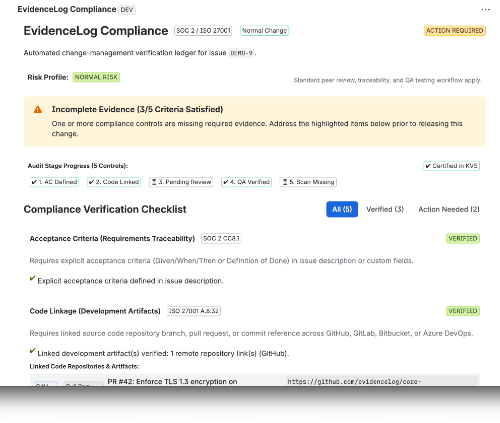
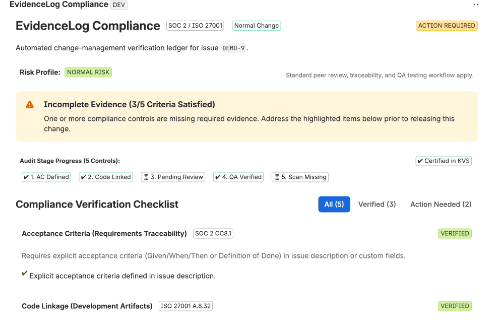
fix: remove all text fluff, HUD badges, and card borders; clean crop with zero waste space

diff --git a/components/Hero.tsx b/components/Hero.tsx
@@ -1,7 +1,6 @@
 "use client";
 
-import { ArrowRight, FileCheck, Check, Download, ShieldCheck } from "lucide-react";
-import Image from "next/image";
+import { ArrowRight, FileCheck, Check, ShieldCheck } from "lucide-react";
 
 interface HeroProps {
   onOpenAuditModal: () => void;
@@ -10,23 +9,11 @@ interface HeroProps {
 export default function Hero({ onOpenAuditModal }: HeroProps) {
   return (
     <section className="relative overflow-hidden pt-12 pb-16 md:pt-16 md:pb-24 bg-white">
-      {/* Signature Contis subtle background shape */}
-      <div className="pointer-events-none absolute right-0 top-0 w-[500px] md:w-[700px] h-[500px] md:h-[600px] z-0 opacity-80 select-none">
-        <Image
-          src="/images/banner_shape_3.png"
-          alt=""
-          fill
-          priority
-          className="object-contain object-right-top"
-        />
-      </div>
-
       <div className="relative mx-auto max-w-7xl px-4 sm:px-6 lg:px-8 z-10">
         {/* Split 2-Column Hero: 100% Above-the-Fold Layout */}
         <div className="grid grid-cols-1 lg:grid-cols-12 gap-8 lg:gap-12 items-center">
           {/* Left Column: Value Proposition, Headlines & CTAs */}
           <div className="lg:col-span-6 xl:col-span-7 text-left">
-            {/* Subdued green kicker */}
             <div className="inline-flex items-center gap-2 px-3 py-1 rounded-full bg-[#dbf1c3]/60 border border-[#b8e29a] text-[#15803d] font-bold text-xs tracking-wider uppercase mb-5 font-heading">
               <ShieldCheck className="h-3.5 w-3.5 text-[#15803d]" />
               <span>EVIDENCELOG FOR JIRA CLOUD</span>
@@ -80,45 +67,14 @@ export default function Hero({ onOpenAuditModal }: HeroProps) {
             </div>
           </div>
 
-          {/* Right Column: Live Frameless App Visual — 100% Above the Fold */}
-          <div className="lg:col-span-6 xl:col-span-5 relative">
-            {/* Ambient Background Glow behind the visual */}
-            <div className="absolute -inset-4 bg-gradient-to-tr from-[#dbf1c3]/40 via-emerald-100/30 to-transparent rounded-3xl blur-2xl -z-10" />
-
-            {/* Frameless Live Jira Ticket & EvidenceLog Visual */}
-            <div
+          {/* Right Column: Pure Live App Screenshot — Clean, Frameless, Zero Fluff */}
+          <div className="lg:col-span-6 xl:col-span-5 flex items-center justify-center">
+            <img
+              src="/images/jira_compliance_checklist_tight.png"
+              alt="EvidenceLog for Jira - Real Live Product Interface on DEMO-9 with 5-Pillar SDLC Checklist"
+              className="w-full h-auto object-contain cursor-pointer transition-transform duration-200 hover:scale-[1.01]"
               onClick={onOpenAuditModal}
-              className="relative cursor-pointer rounded-2xl border border-slate-200/80 bg-white shadow-xl hover:shadow-2xl overflow-hidden group transition-all duration-300"
-            >
-              <img
-                src="/images/jira_compliance_checklist_tight.png"
-                alt="EvidenceLog for Jira - Real Live Product Interface on DEMO-9 with 5-Pillar SDLC Checklist"
-                className="w-full h-auto object-contain transition-transform duration-300 group-hover:scale-[1.01]"
-              />
-
-              {/* Floating Live Verification Badge (Babun-style micro-proof) */}
-              <div className="absolute top-3 right-3 bg-white/95 backdrop-blur-xs border border-emerald-200/90 rounded-lg px-2.5 py-1 shadow-md flex items-center gap-1.5 pointer-events-none">
-                <span className="h-2 w-2 rounded-full bg-emerald-500 animate-pulse" />
-                <span className="text-[11px] font-bold text-emerald-800 font-mono">
-                  5/5 Verified • SOC 2
-                </span>
-              </div>
-
-              {/* Subtle Hover Inspection Affordance */}
-              <div className="absolute inset-0 bg-slate-950/20 opacity-0 group-hover:opacity-100 transition-opacity duration-200 flex items-center justify-center backdrop-blur-[1px]">
-                <span className="px-4 py-2 rounded-xl bg-white text-[#111013] text-xs font-bold shadow-xl flex items-center gap-1.5">
-                  <Download className="h-3.5 w-3.5 text-[#15803d]" />
-                  <span>Click to Inspect Full Audit Dossier</span>
-                  <ArrowRight className="h-3.5 w-3.5" />
-                </span>
-              </div>
-            </div>
-
-            {/* Subtext indicator */}
-            <div className="mt-3 flex items-center justify-between text-[11px] text-[#5c728e] px-1 font-mono">
-              <span>Tenant: langtago-demo.atlassian.net</span>
-              <span className="text-emerald-700 font-semibold">100% In-Tenant Forge Compute</span>
-            </div>
+            />
           </div>
         </div>
       </div>

diff --git a/components/HowItWorks.tsx b/components/HowItWorks.tsx
@@ -60,25 +60,14 @@ export default function HowItWorks({ onOpenAuditModal }: HowItWorksProps) {
 
         {/* 2-Column Working Process Layout (Left Clean Screenshot, Right Stepper Accordion) */}
         <div className="grid grid-cols-1 lg:grid-cols-12 gap-10 items-center">
-          {/* Left Column: Clean Jira Cloud Screenshot Viewer (col-6) */}
-          <div className="lg:col-span-6">
-            <div
+          {/* Left Column: Clean Jira Cloud Screenshot (col-6) */}
+          <div className="lg:col-span-6 flex items-center justify-center">
+            <img
+              src={currentStep.screenshot}
+              alt={currentStep.caption}
+              className="w-full h-auto object-contain cursor-pointer transition-transform duration-200 hover:scale-[1.01]"
               onClick={onOpenAuditModal}
-              className="relative rounded-2xl border border-slate-200/90 bg-white shadow-xl hover:shadow-2xl overflow-hidden cursor-pointer group transition-all duration-300"
-            >
-              <img
-                src={currentStep.screenshot}
-                alt={currentStep.caption}
-                className="w-full h-auto object-contain transition-transform duration-300 group-hover:scale-[1.01]"
-              />
-
-              <div className="absolute inset-0 bg-slate-950/20 opacity-0 group-hover:opacity-100 transition-opacity flex items-center justify-center backdrop-blur-[1px]">
-                <span className="px-4 py-2 rounded-xl bg-white text-[#111013] text-xs font-bold shadow-xl flex items-center gap-1.5">
-                  <span>Inspect Full Audit Dossier</span>
-                  <ArrowRight className="h-3.5 w-3.5" />
-                </span>
-              </div>
-            </div>
+            />
           </div>
 
           {/* Right Column: Contis-Style Vertical Numbered Stepper (col-6) */}
